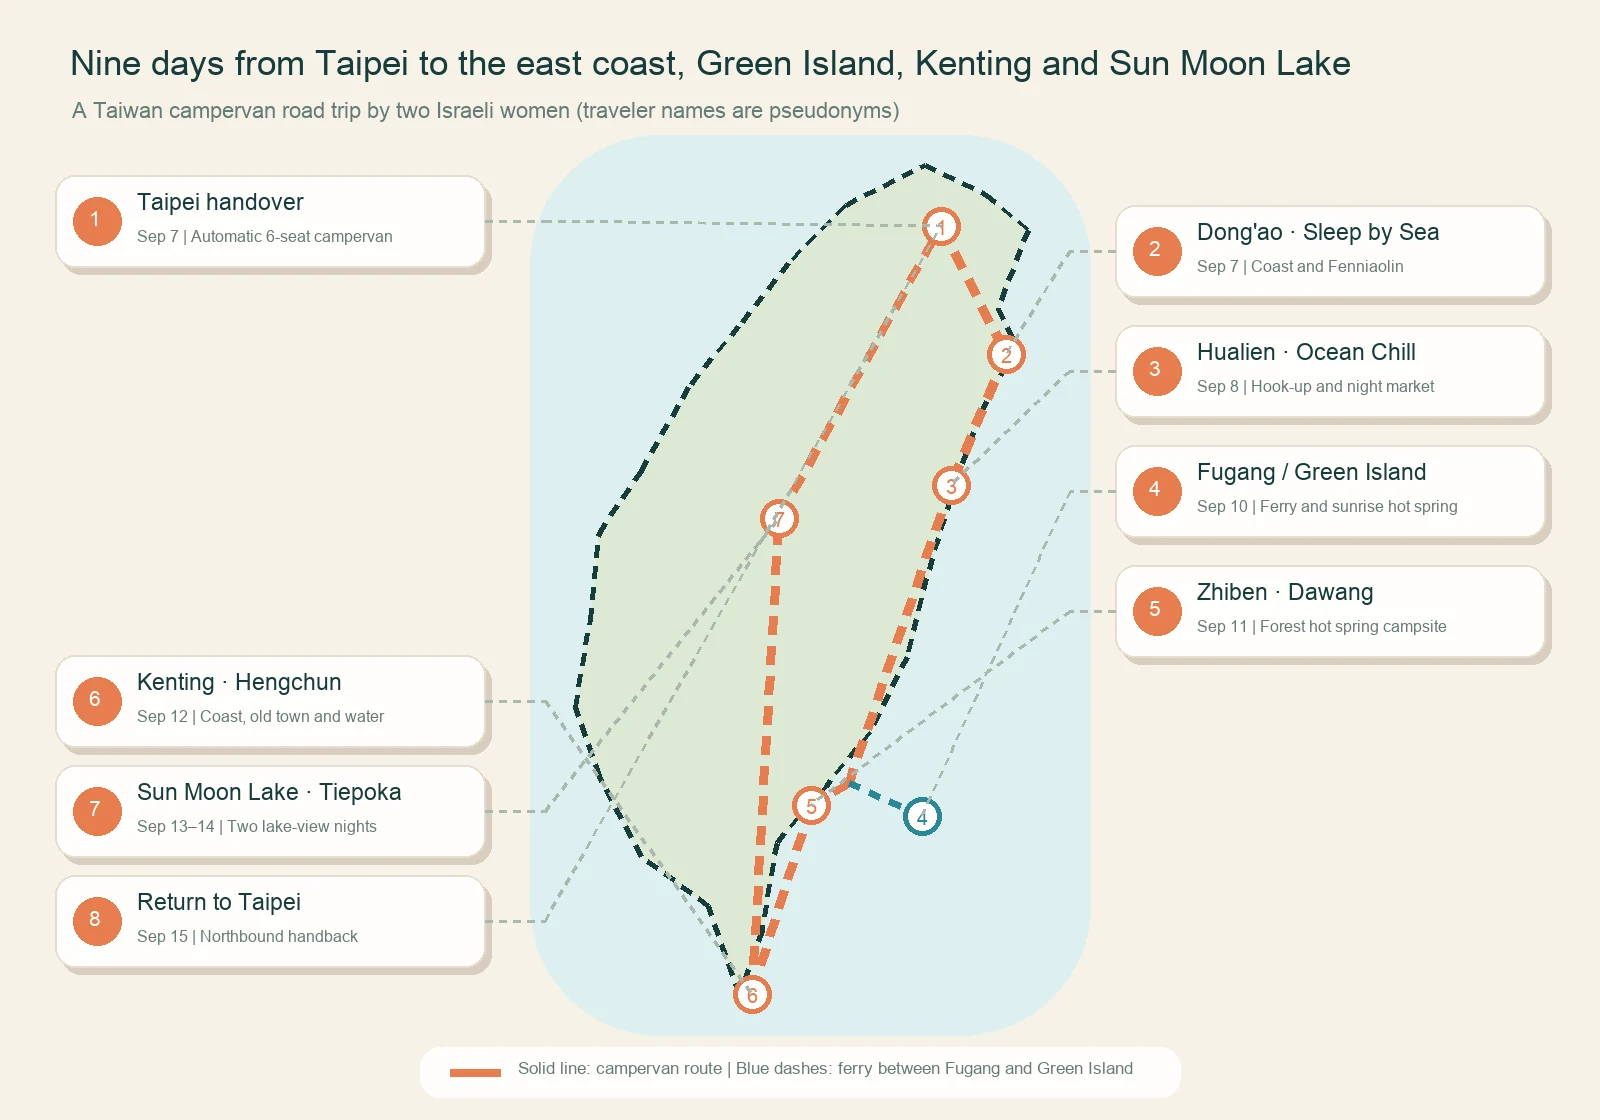
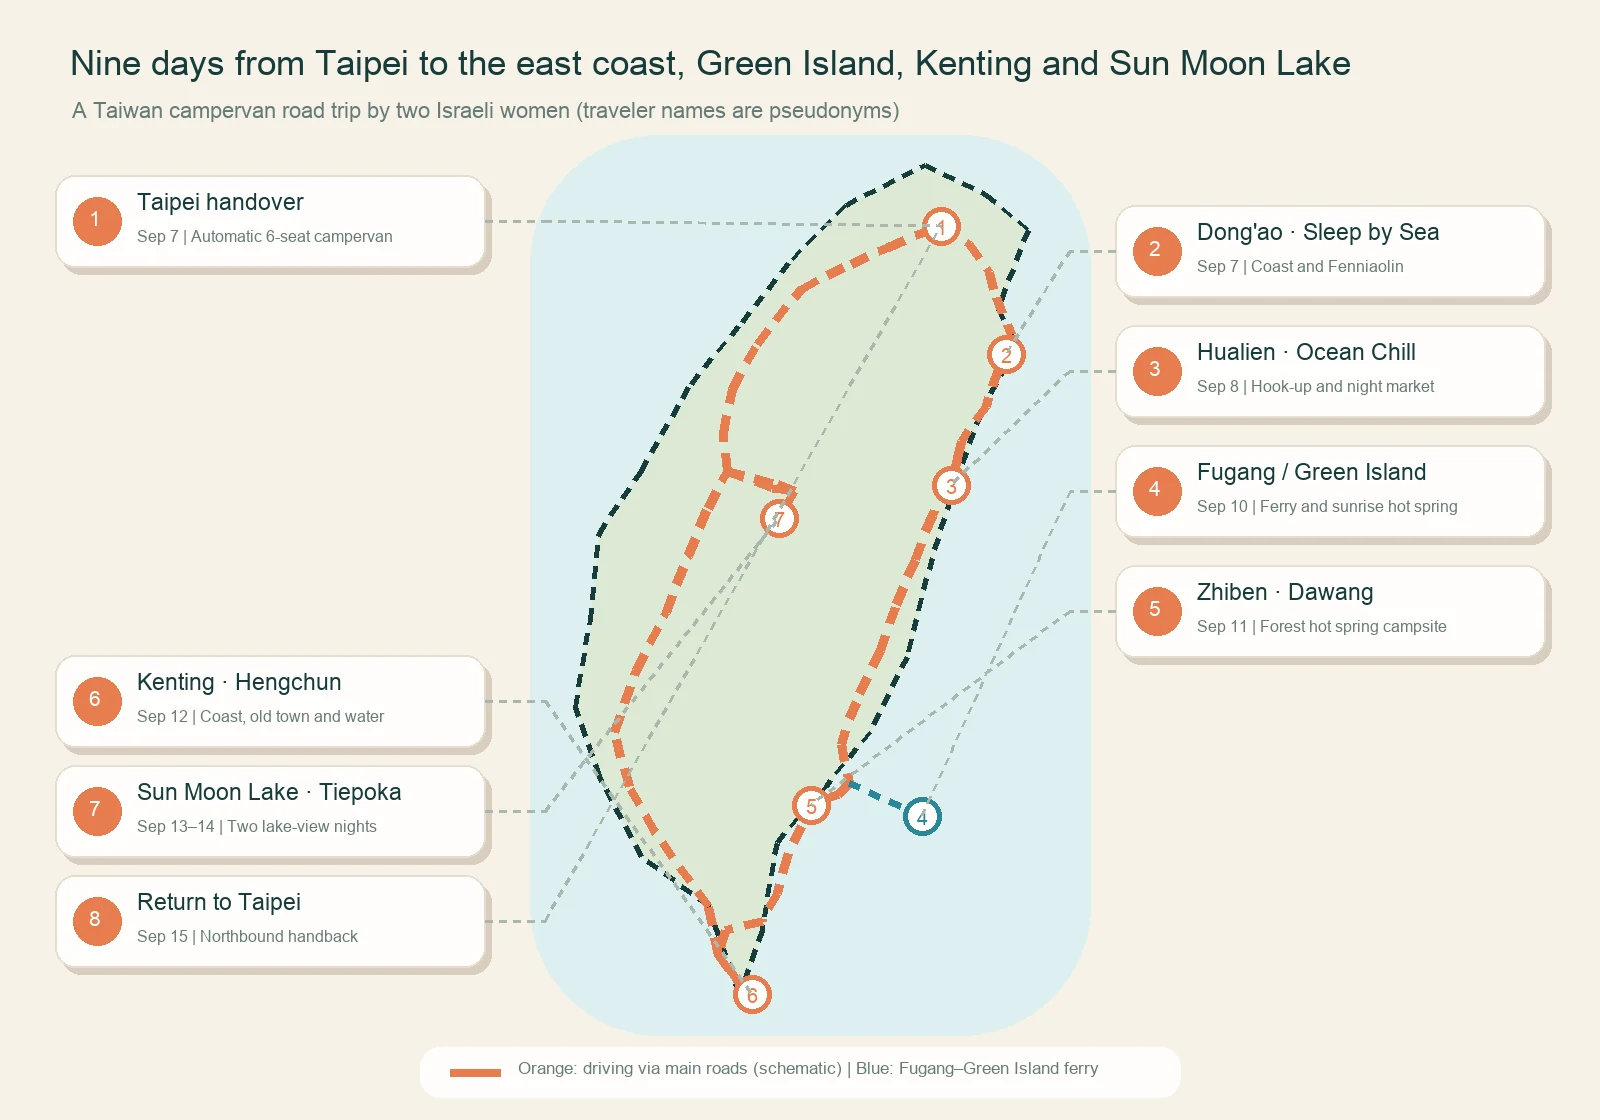
Correct Taiwan road route on Israeli guests map

diff --git a/scripts/make-israeli-women-route-map.py b/scripts/make-israeli-women-route-map.py
@@ -45,6 +45,75 @@ PLACES = {
     "sunmoon": (120.9100, 23.8600),
 }
 
+# Major-road geometry for the actual driving order.  These intermediate
+# waypoints keep the infographic schematic while making the orange line follow
+# the real road corridors instead of drawing straight chords between stops:
+# National Freeway 5 / Provincial Hwy 9 and Suhua, Hwy 9 through the Rift
+# Valley, the South Link Highway, then the western Freeway 3 / 6 and Hwy 21.
+ROAD_ROUTE = [
+    # Taipei -> Yilan -> Su'ao -> Dong'ao (Freeway 5 / Hwy 9)
+    PLACES["taipei"],
+    (121.68, 24.96),
+    (121.76, 24.85),
+    (121.79, 24.75),
+    (121.85, 24.60),
+    PLACES["dongao"],
+    # Dong'ao -> Nan'ao -> Heping -> Chongde -> Hualien (Suhua / Hwy 9)
+    (121.80, 24.46),
+    (121.75, 24.31),
+    (121.65, 24.17),
+    (121.63, 24.10),
+    PLACES["hualien"],
+    # Hualien -> Ruisui -> Yuli -> Chishang -> Taitung/Fugang (Hwy 9)
+    (121.53, 23.87),
+    (121.46, 23.69),
+    (121.38, 23.50),
+    (121.32, 23.33),
+    (121.22, 23.12),
+    (121.16, 22.95),
+    PLACES["fugang"],
+    # Taitung -> Zhiben
+    (121.15, 22.75),
+    PLACES["zhiben"],
+    # Zhiben -> Taimali -> Dawu -> Shouka -> Fenggang -> Kenting
+    # (Hwy 9 South Link, then Hwy 26 around Hengchun Peninsula)
+    (121.00, 22.62),
+    (120.94, 22.50),
+    (120.90, 22.35),
+    (120.84, 22.24),
+    (120.69, 22.20),
+    (120.66, 22.10),
+    (120.74, 22.00),
+    PLACES["kenting"],
+    # Kenting -> western corridor -> Wufeng/Puli -> Sun Moon Lake
+    # (Hwy 26 / Freeway 3 / Freeway 6 / Hwy 21)
+    (120.74, 22.00),
+    (120.66, 22.10),
+    (120.62, 22.30),
+    (120.40, 22.60),
+    (120.30, 22.78),
+    (120.24, 23.00),
+    (120.33, 23.25),
+    (120.45, 23.48),
+    (120.54, 23.71),
+    (120.62, 23.90),
+    (120.70, 24.05),
+    (120.88, 23.98),
+    (120.97, 23.97),
+    PLACES["sunmoon"],
+    # Sun Moon Lake -> Puli/Wufeng -> Freeway 3 north -> Taipei
+    (120.97, 23.97),
+    (120.88, 24.00),
+    (120.70, 24.05),
+    (120.68, 24.20),
+    (120.72, 24.38),
+    (120.82, 24.56),
+    (121.00, 24.78),
+    (121.20, 24.88),
+    (121.35, 24.95),
+    PLACES["taipei"],
+]
+
 
 def fnt(lang: str, size: int, bold: bool = False):
     path = ZH_FONT if lang == "zh" else EN_FONT
@@ -112,7 +181,7 @@ def render(lang: str, filename: str):
             (7, "日月潭 / 帖泊喀", "9/13–14 湖景 B 區兩晚", "sunmoon", "left"),
             (8, "返回台北", "9/15 北上還車", "taipei", "left"),
         ]
-        note = "實線：露營車移動｜藍色虛線：富岡往返綠島的船程"
+        note = "橘線：依主要公路行駛（路線示意）｜藍線：富岡往返綠島船程"
     else:
         title = "Nine days from Taipei to the east coast, Green Island, Kenting and Sun Moon Lake"
         subtitle = "A Taiwan campervan road trip by two Israeli women (traveler names are pseudonyms)"
@@ -126,7 +195,7 @@ def render(lang: str, filename: str):
             (7, "Sun Moon Lake · Tiepoka", "Sep 13–14 | Two lake-view nights", "sunmoon", "left"),
             (8, "Return to Taipei", "Sep 15 | Northbound handback", "taipei", "left"),
         ]
-        note = "Solid line: campervan route | Blue dashes: ferry between Fugang and Green Island"
+        note = "Orange: driving via main roads (schematic) | Blue: Fugang–Green Island ferry"
 
     draw.text((70, 43), title, font=fnt(lang, 39 if lang == "zh" else 35), fill=INK)
     draw.text((72, 98), subtitle, font=fnt(lang, 22), fill=MUTED)
@@ -135,8 +204,7 @@ def render(lang: str, filename: str):
     draw.polygon(island, fill=LAND)
     dashed(draw, island, INK, width=5, dash=12, gap=9)
 
-    route_names = ["taipei", "dongao", "hualien", "fugang", "zhiben", "kenting", "sunmoon", "taipei"]
-    route = [project(PLACES[name]) for name in route_names]
+    route = [project(point) for point in ROAD_ROUTE]
     dashed(draw, route, ORANGE, width=9, dash=18, gap=12)
     dashed(draw, [project(PLACES["fugang"]), project(PLACES["green"])], BLUE, width=7, dash=12, gap=10)
 
